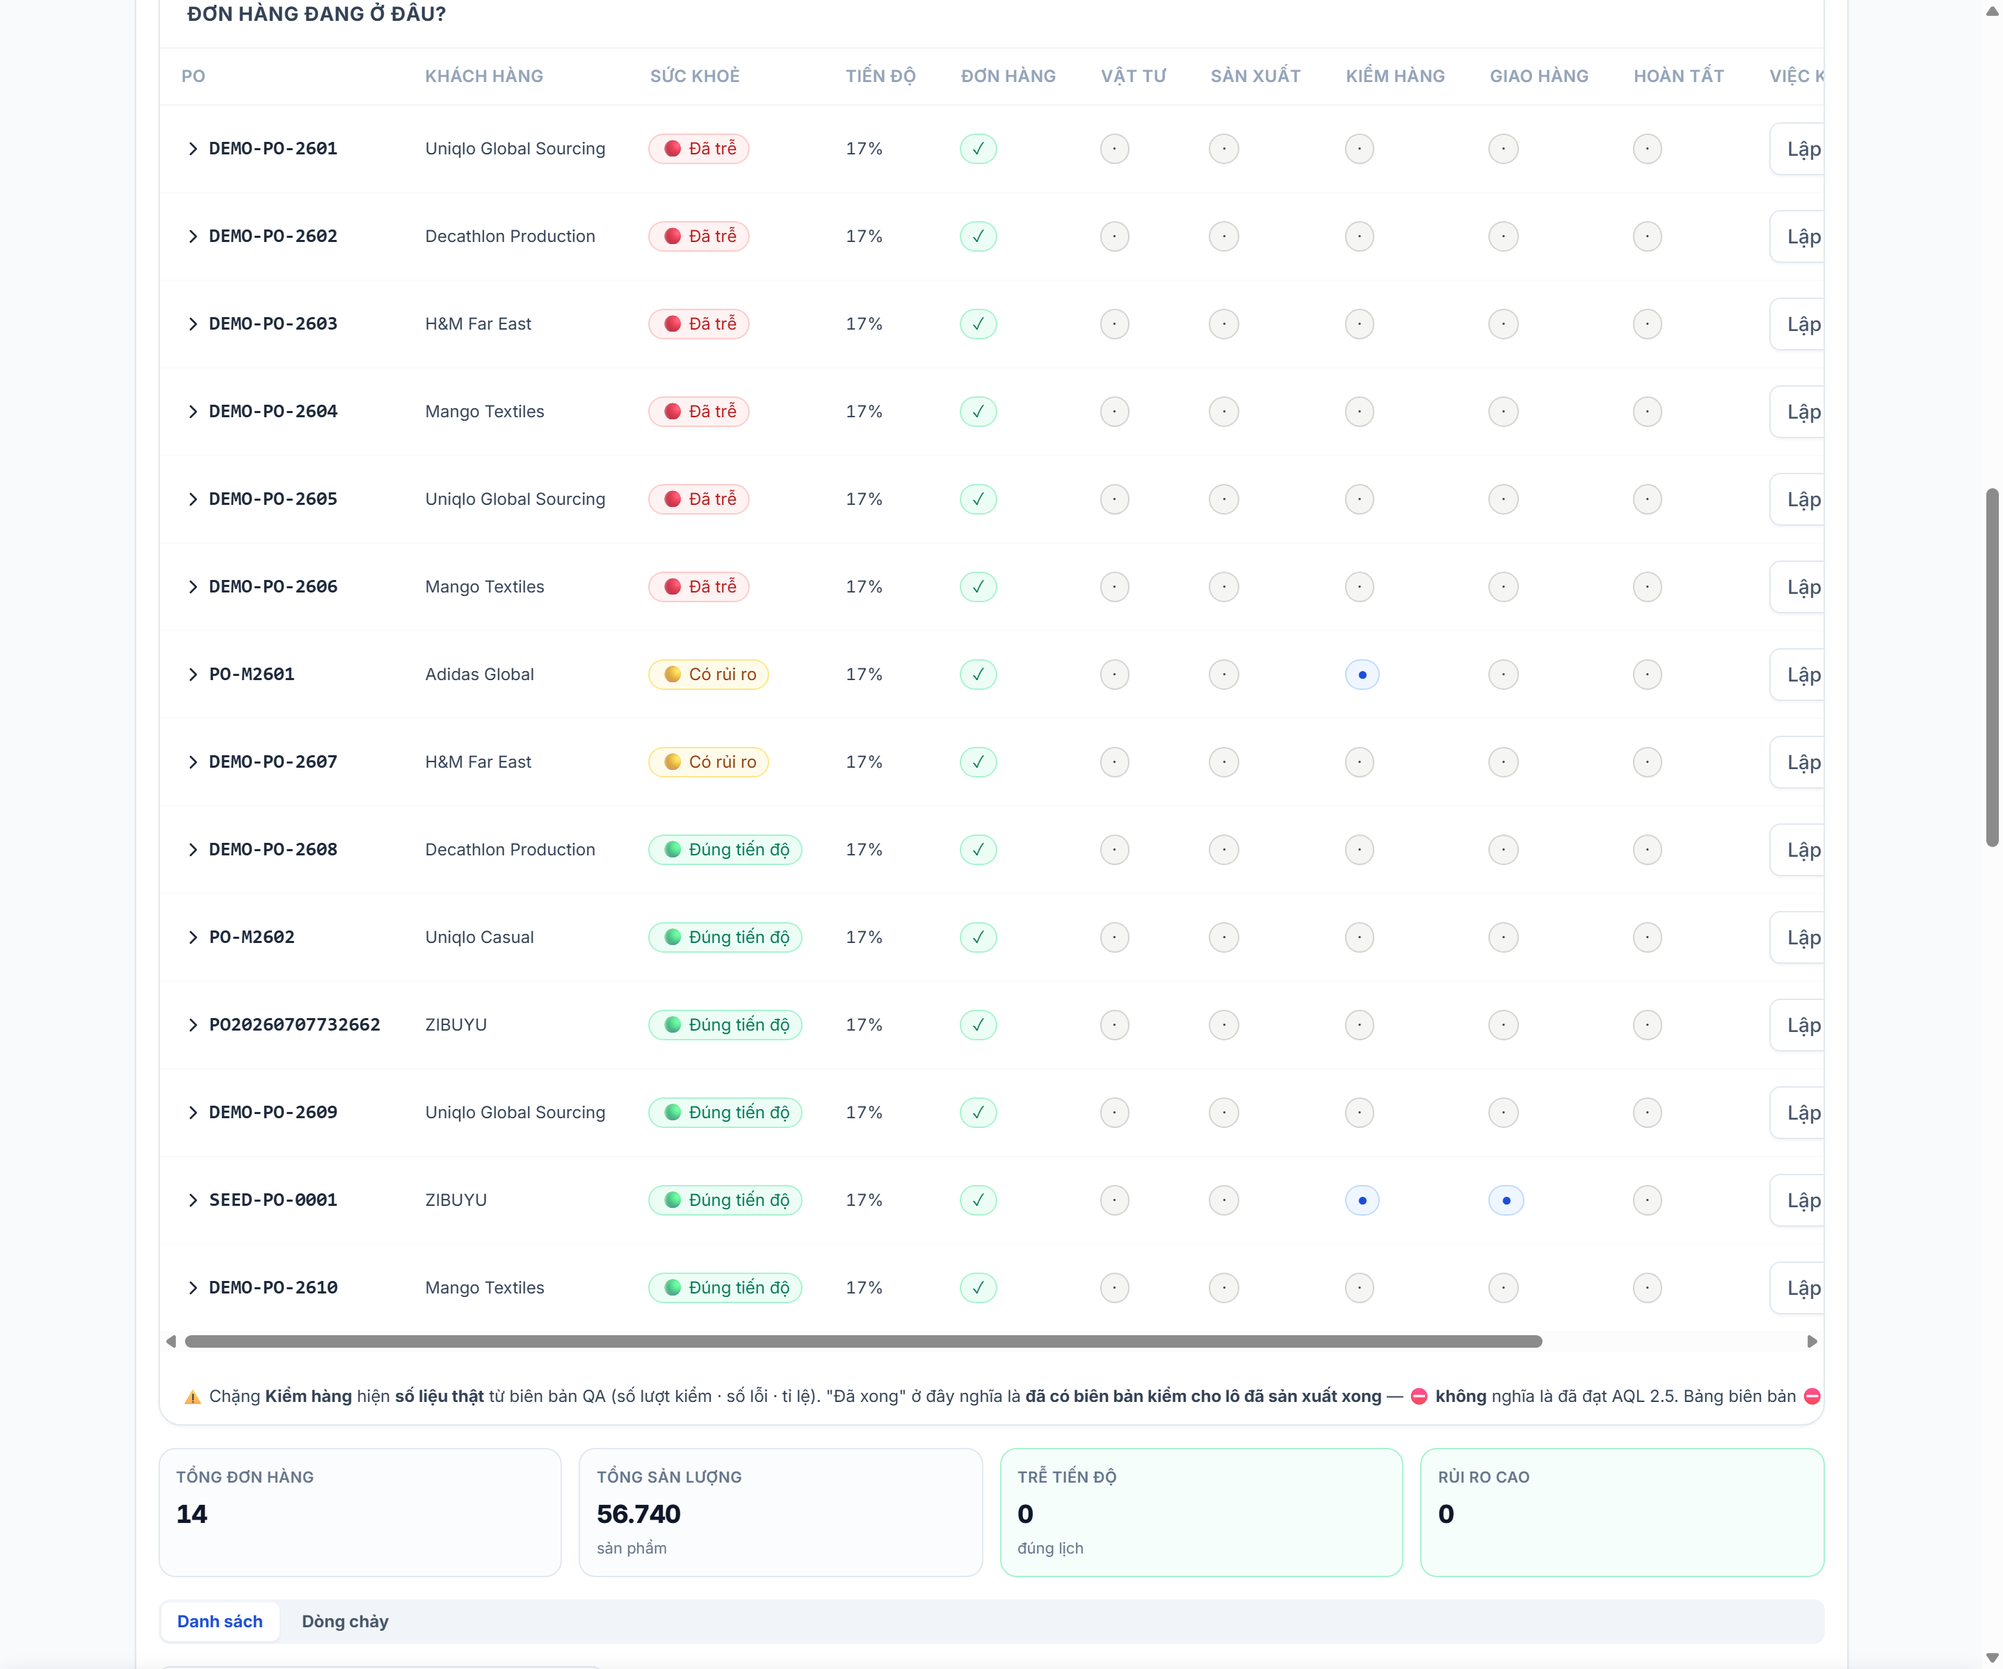
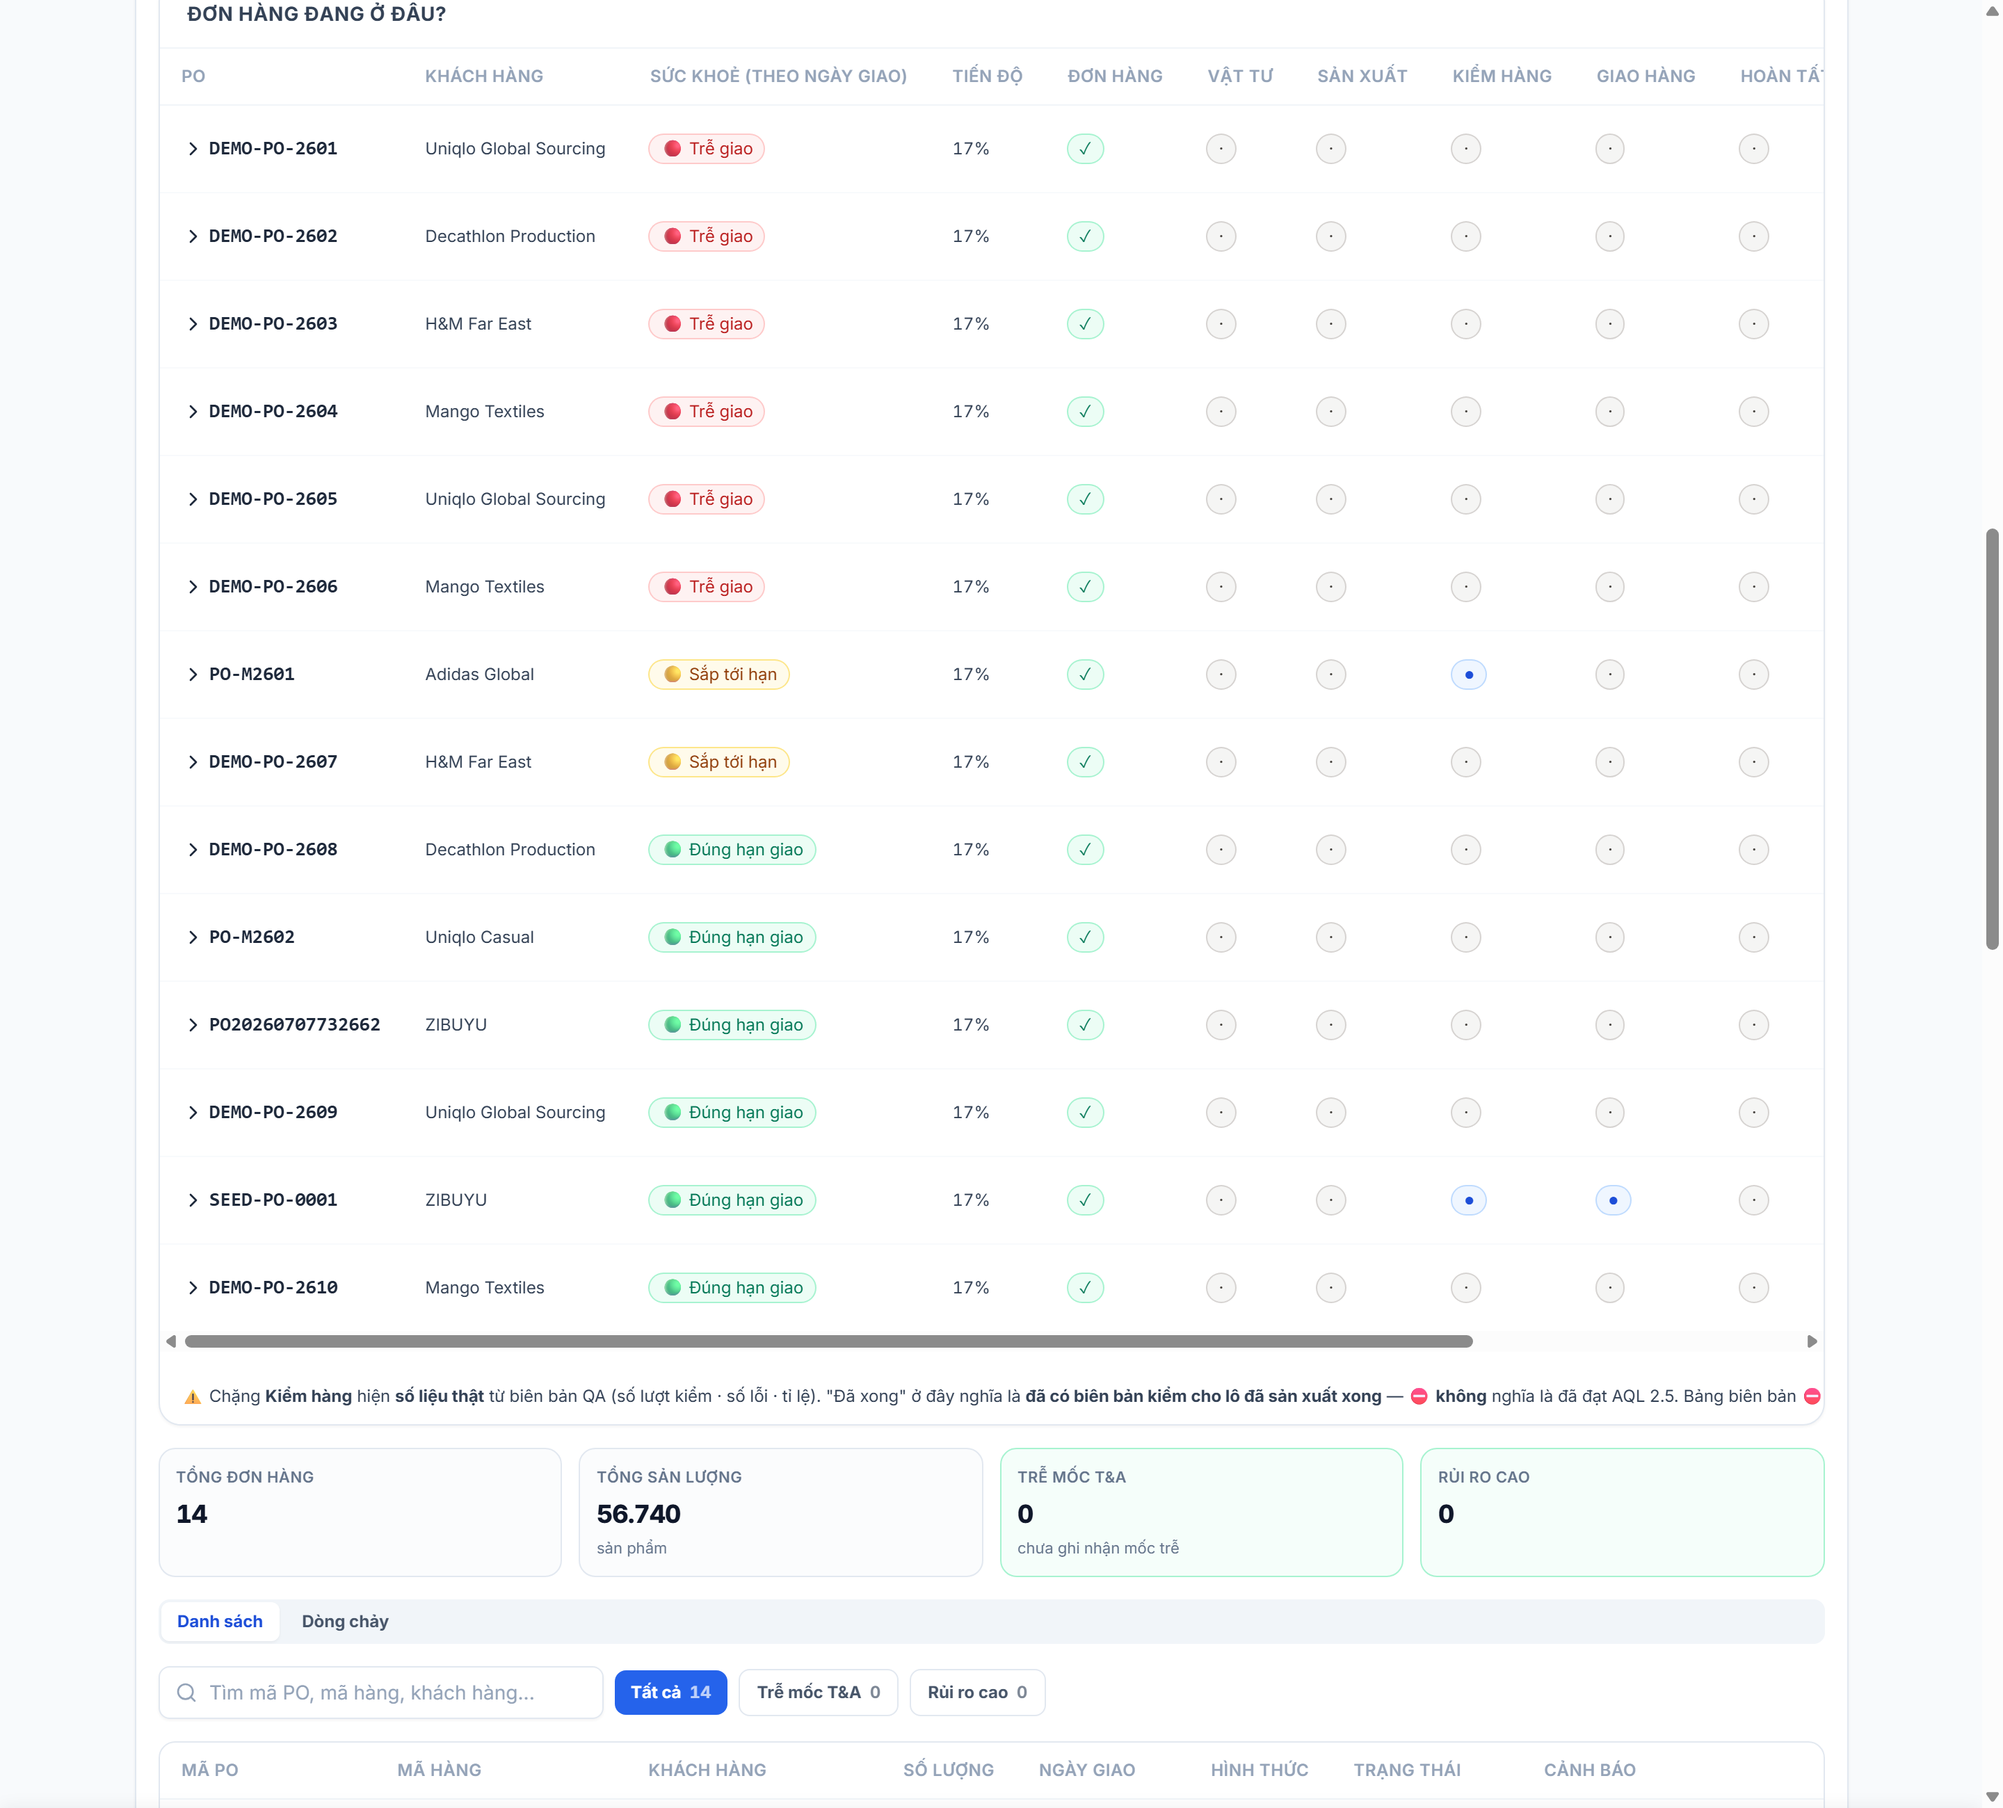
fix(md): gọi đúng tên hai phép đo "trễ" — hết mâu thuẫn trên cùng màn hình
Board Decision 06/08/2026 — phương án 3.

TRIỆU CHỨNG (thấy trên ảnh chụp phiên đăng nhập thật)
Bảng "Đơn hàng đang ở đâu?" hiện **6 đơn 🔴 Đã trễ**, ngay cạnh thẻ chỉ số ghi
**"Trễ tiến độ: 0 · đúng lịch"**. Người xem ⛔ không biết tin cái nào.

NGUYÊN NHÂN — hai phép đo khác nhau, cùng một cái tên
  · thẻ chỉ số  → `late_milestones > 0`   = trễ **MỐC T&A**
  · bảng hành trình → `delivery_date < hôm nay` = trễ **NGÀY GIAO**
Cột `late_milestones` đang rỗng ⇒ thẻ luôn bằng 0, kể cả khi đơn đã quá hạn
giao 10 ngày.

CÁCH SỬA — đổi TÊN, ⛔ không đổi PHÉP ĐO
  · "Trễ tiến độ"        → **"Trễ mốc T&A"**  *(thẻ + chip lọc)*
  · "Đã trễ"             → **"Trễ giao"**
  · "Đúng tiến độ"       → **"Đúng hạn giao"**
  · "Có rủi ro"          → **"Sắp tới hạn"**
  · cột "Sức khoẻ"       → **"Sức khoẻ (theo ngày giao)"**

🔑 Đổi phép đo là đổi định nghĩa nghiệp vụ — quyết định của Board, ⛔ không
phải của một lượt sửa giao diện. Nên bản này chỉ gọi đúng tên.

⚠ Câu phụ "đúng lịch" khi chỉ số bằng 0 là **sai sự thật**: ⛔ không có mốc
nào thì đương nhiên ⛔ không mốc nào trễ, mà đơn vẫn có thể đã quá hạn giao.
Nay ghi trung thực: "chưa ghi nhận mốc trễ".

KIỂM CHỨNG — trên phiên đăng nhập md001 thật, ⛔ không phải suy đoán
- Chuỗi "Trễ tiến độ" còn lại trên trang: **0**.
- Nhãn mới hiện đủ: Trễ mốc T&A · Trễ giao · chưa ghi nhận mốc trễ.
- typecheck sạch · lint 0 cảnh báo · kiến trúc 84/0 · 55 phép đo nghiệp vụ đạt
  · build OK. Ảnh chụp cập nhật ở docs/screenshots/md-order-journey.png.

diff --git a/components/md/po/po-list.tsx b/components/md/po/po-list.tsx
@@ -74,7 +74,9 @@ function PoList({
 
   const FILTERS: Array<{ key: Filter; label: string; count: number }> = [
     { key: 'all', label: 'Tất cả', count: stats.total },
-    { key: 'late', label: 'Trễ tiến độ', count: stats.late },
+    // ⚠ "Trễ mốc T&A", ⛔ KHÔNG phải "Trễ tiến độ" — xem khối chú thích ở
+    // thẻ chỉ số bên dưới.
+    { key: 'late', label: 'Trễ mốc T&A', count: stats.late },
     { key: 'risk', label: 'Rủi ro cao', count: stats.risky },
   ];
 
@@ -83,11 +85,25 @@ function PoList({
       <div className="mb-4 grid grid-cols-2 gap-3 lg:grid-cols-4">
         <Metric label="Tổng đơn hàng" value={fmtNum(stats.total)} />
         <Metric label="Tổng sản lượng" value={fmtNum(stats.qty)} sub="sản phẩm" />
+        {/* 🔴 ĐỔI NHÃN — Board Decision 06/08/2026, phương án 3.
+            Chỉ số này đếm `late_milestones > 0`, tức **trễ MỐC T&A**. Bảng
+            "Đơn hàng đang ở đâu?" lại đếm **quá NGÀY GIAO**. Hai phép đo khác
+            nhau, và trước bản này cả hai cùng mang tên "Trễ tiến độ" — nên màn
+            hình hiện "6 đơn 🔴 Đã trễ" ngay cạnh thẻ ghi "Trễ tiến độ: 0".
+
+            🔑 Sửa bằng cách GỌI ĐÚNG TÊN, ⛔ không phải bằng cách đổi phép đo:
+            đổi phép đo là đổi định nghĩa nghiệp vụ, và đó là quyết định của
+            Board chứ ⛔ không phải của một lượt sửa giao diện.
+
+            ⚠ `sub` cũ ghi "đúng lịch" khi đếm bằng 0 — câu đó **sai sự thật**
+            khi mốc T&A chưa có dữ liệu: ⛔ không có mốc nào thì đương nhiên
+            ⛔ không mốc nào trễ, mà đơn vẫn có thể đã quá ngày giao. Nay ghi
+            trung thực là "⛔ chưa ghi nhận mốc trễ". */}
         <Metric
-          label="Trễ tiến độ"
+          label="Trễ mốc T&A"
           value={fmtNum(stats.late)}
           tone={stats.late > 0 ? 'rose' : 'emerald'}
-          sub={stats.late > 0 ? 'cần xử lý ngay' : 'đúng lịch'}
+          sub={stats.late > 0 ? 'cần xử lý ngay' : 'chưa ghi nhận mốc trễ'}
         />
         <Metric
           label="Rủi ro cao"

diff --git a/lib/mos/md/order-journey.ts b/lib/mos/md/order-journey.ts
@@ -116,10 +116,21 @@ export interface ChangResult {
 export const SUC_KHOE = ['ON_TRACK', 'AT_RISK', 'DELAYED'] as const;
 export type SucKhoe = (typeof SUC_KHOE)[number];
 
+/**
+ * 🔴 **Nhãn nói rõ ĐANG ĐO CÁI GÌ** — Board Decision 06/08/2026, phương án 3.
+ *
+ * Chỉ số `Trễ mốc T&A` ở danh sách PO đếm `late_milestones > 0`; ba mức dưới
+ * đây đo **ngày giao**. Hai phép đo khác nhau, và khi cả hai cùng mang tên
+ * *"trễ tiến độ"* thì màn hình tự mâu thuẫn: 6 dòng đỏ nằm cạnh một thẻ ghi
+ * *"Trễ tiến độ: 0"*.
+ *
+ * ⇒ Gọi đúng tên: **"Trễ giao"**. ⛔ KHÔNG hợp nhất hai phép đo — hợp nhất là
+ * đổi định nghĩa nghiệp vụ, và đó là quyết định của Board.
+ */
 export const SUC_KHOE_LABEL: Record<SucKhoe, string> = {
-  ON_TRACK: 'Đúng tiến độ',
-  AT_RISK: 'Có rủi ro',
-  DELAYED: 'Đã trễ',
+  ON_TRACK: 'Đúng hạn giao',
+  AT_RISK: 'Sắp tới hạn',
+  DELAYED: 'Trễ giao',
 };
 
 /** Việc kế tiếp — ⛔ không có thì `null`, và giao diện ⛔ không được bịa ra một

diff --git a/app/(dashboard)/md/md-order-journey.tsx b/app/(dashboard)/md/md-order-journey.tsx
@@ -87,7 +87,9 @@ export default function MdOrderJourney({
                 <tr className={theadRow}>
                   <th className={thCls}>PO</th>
                   <th className={thCls}>Khách hàng</th>
-                  <th className={thCls}>Sức khoẻ</th>
+                  {/* Nói rõ đo theo NGÀY GIAO — thẻ "Trễ mốc T&A" ở dưới đo
+                      thứ khác. Hai cột cùng tên là chỗ màn hình tự mâu thuẫn. */}
+                  <th className={thCls} title="Đo theo ngày giao hẹn khách">Sức khoẻ (theo ngày giao)</th>
                   <th className={thCls}>Tiến độ</th>
                   {CHANG.map((c) => <th key={c} className={thCls}>{CHANG_LABEL[c]}</th>)}
                   <th className={thCls}>Việc kế tiếp</th>
